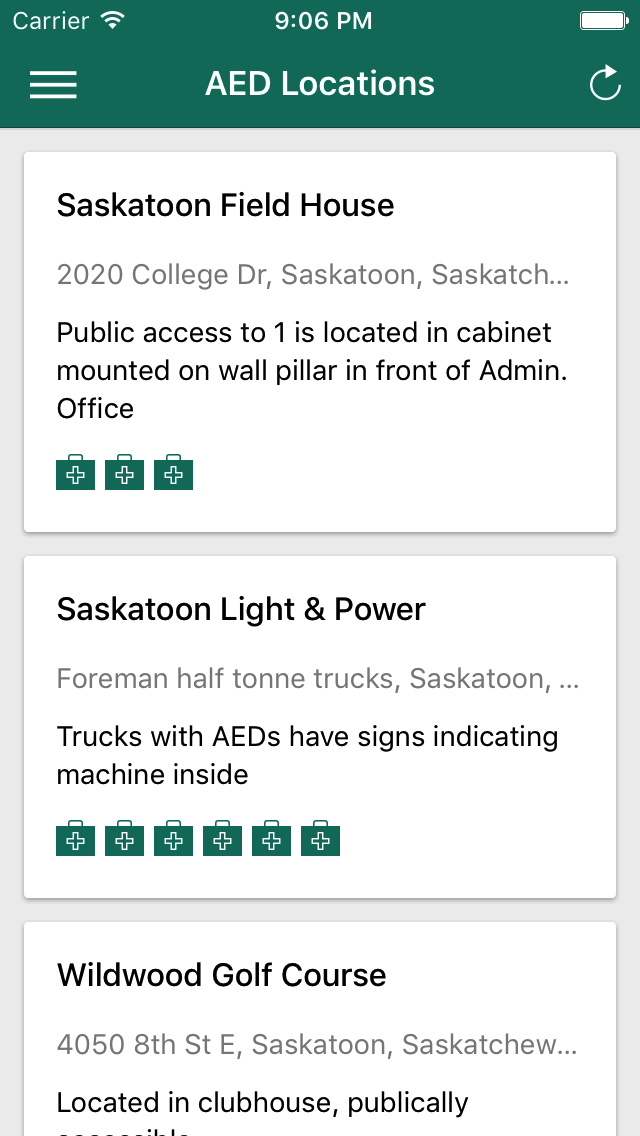
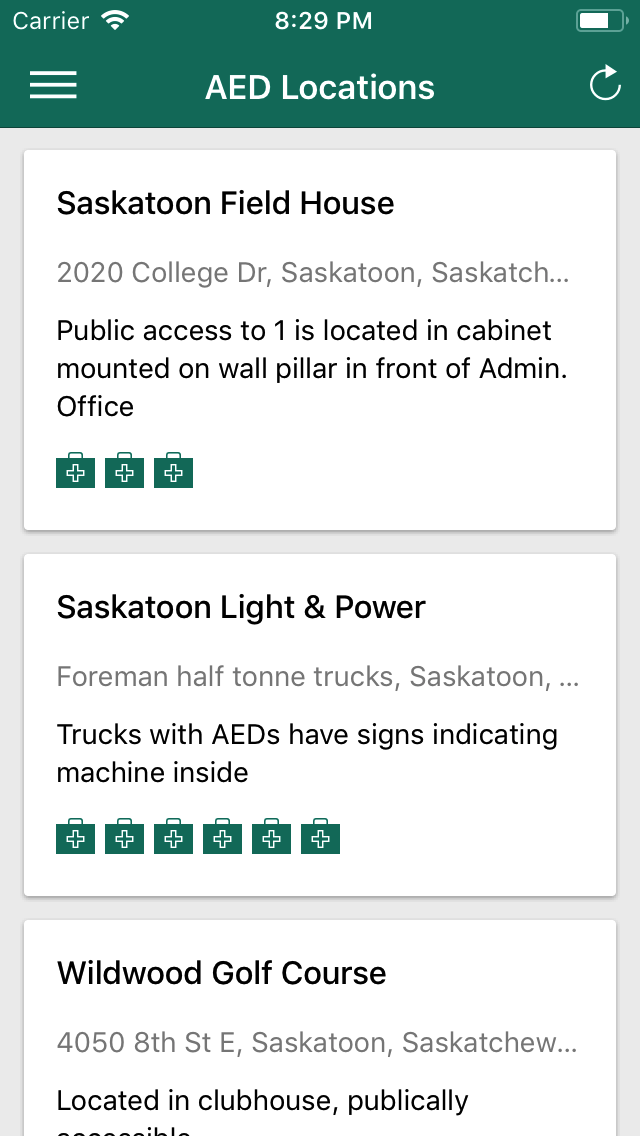
Updated screenshots

diff --git a/src/theme/variables.scss b/src/theme/variables.scss
@@ -13,6 +13,7 @@ $font-path: "../assets/fonts";
 // http://ionicframework.com/docs/v2/theming/overriding-ionic-variables/
 
 $background-color: #eeeeee;
+$list-background-color: #f6f6f6;
 
 // Named Color Variables
 // --------------------------------------------------
